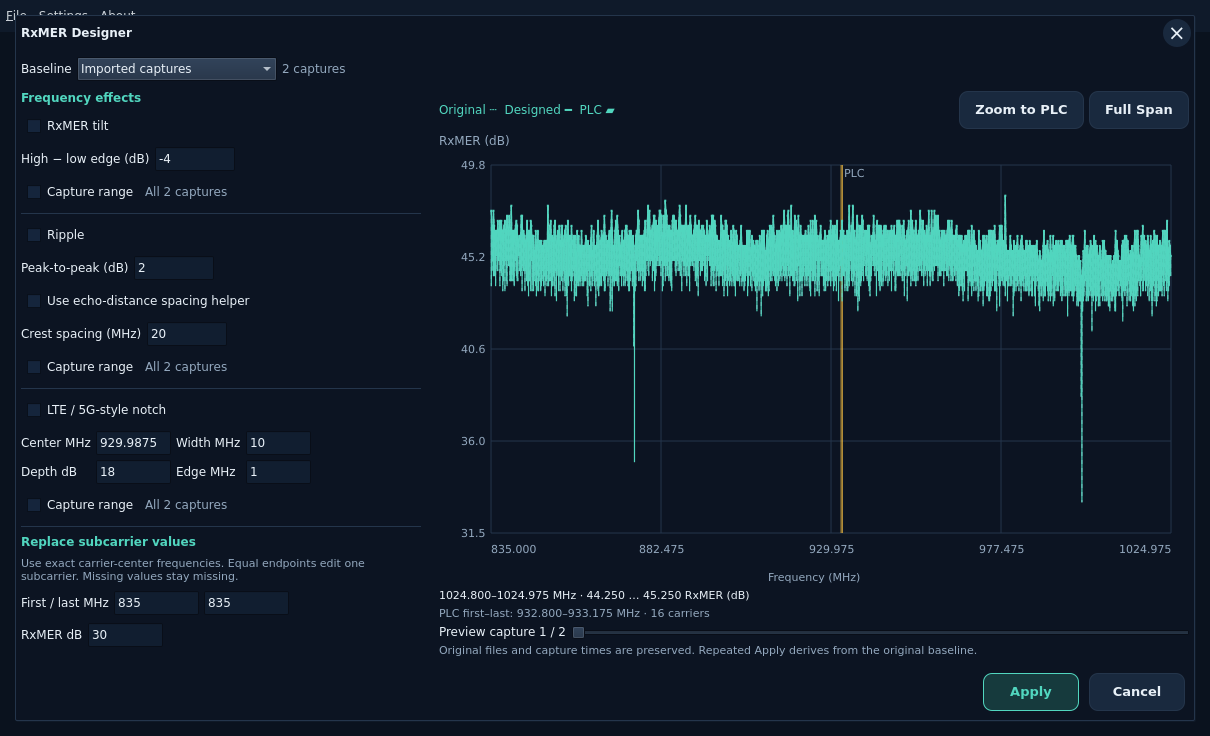
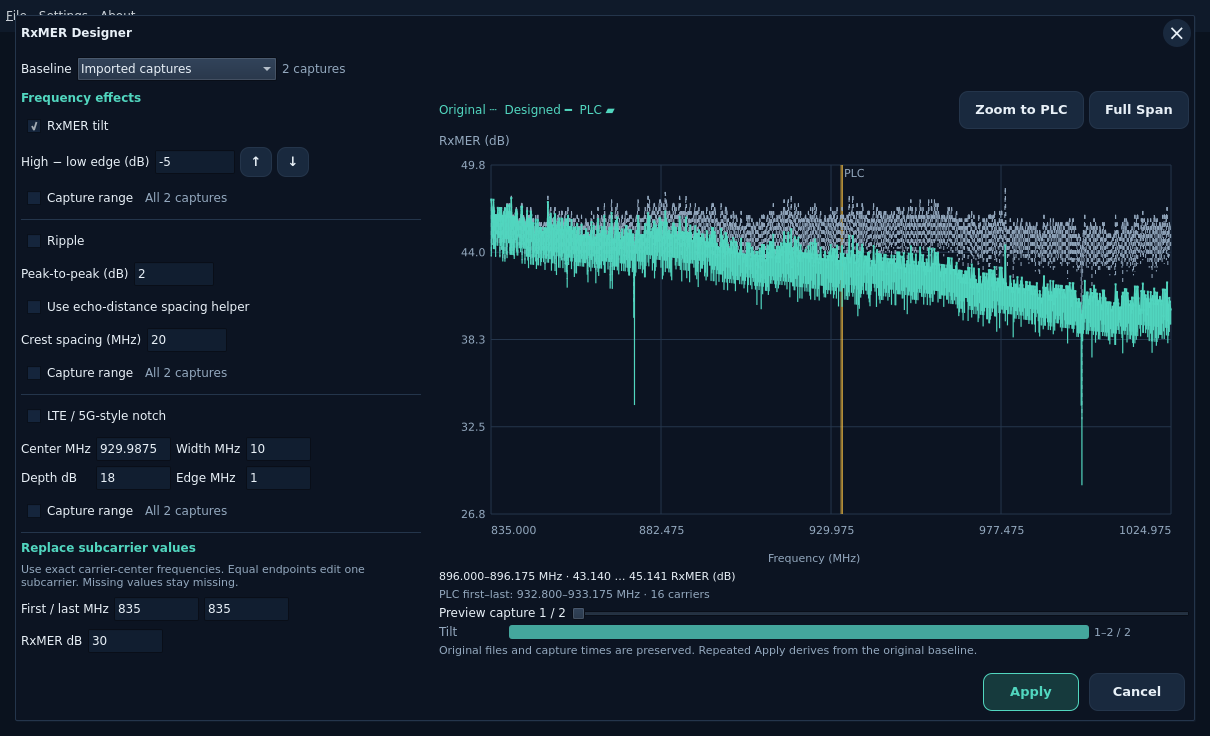
Feature: Add RxMER zoom and PLC focus - Connect Designer wheel and keyboard zoom - Add PLC focus and exact frequency readouts - Strengthen shading and retain capture zoom - Update guides and native screenshots - Tests: 74 adapter, 64 QML, Clippy and native UI

diff --git a/apps/qt/qml/inputs/measurement_input/RxmerDesignerDialog.qml b/apps/qt/qml/inputs/measurement_input/RxmerDesignerDialog.qml
@@ -33,6 +33,13 @@ WorkbenchDialog {
             ripple:ripple.checked ? {scope:rippleScope.value(),peak_to_peak_db:Number(rippleDb.text),spacing:distanceMode.checked ? {mode:"echo_distance",distance_metres:Number(distance.text),velocity_factor:Number(vf.text)} : {mode:"frequency",spacing_hz:Math.round(Number(spacing.text)*1e6)}} : null,
             notch:notch.checked ? {scope:notchScope.value(),center_hz:Math.round(Number(center.text)*1e6),bandwidth_hz:Math.round(Number(bandwidth.text)*1e6),depth_db:Number(depth.text),edge_hz:Math.round(Number(edge.text)*1e6)} : null,edits:valueEdits}
     }
+    function canStepTilt(delta) {
+        const value=Number(tiltDb.text)
+        return tiltDb.text.trim().length>0 && Number.isFinite(value) && value>=-60 && value<=60 && value+delta>=-60 && value+delta<=60
+    }
+    function stepTilt(delta) {
+        if (canStepTilt(delta)) {tiltDb.text=String(Number(tiltDb.text)+delta);refresh()}
+    }
     function document() { return JSON.stringify({source:source.currentIndex === 0 ? "imported":"flat",capture_count:captureCount,baseline_db:Number(baseline.text),recipe:recipe()}) }
     function refresh() { if (!initializing && visible && !working) { viewport=JSON.parse(backend.designer_preview(document(),Math.round(preview.value),viewStart,viewCount));errorMessage=viewport.error || "";diagnostic=viewport.diagnostic || null } }
     function setWindow(start,count) {viewStart=start;viewCount=count;refresh()}
@@ -93,7 +100,26 @@ WorkbenchDialog {
                     Label {text:"Frequency effects";color:theme.accent;font.bold:true}
                     CheckBox {id:tilt;objectName:"designerTilt";text:"RxMER tilt";onToggled:dialog.refresh()}
                     RowLayout {Label {text:"High − low edge (dB)";color:theme.text}
-TextField {id:tiltDb;text:"-4";Layout.preferredWidth:80;onEditingFinished:dialog.refresh()} }
+                        TextField {
+                            id:tiltDb;objectName:"designerTiltDb";text:"-4";Layout.preferredWidth:80
+                            Accessible.name:"High minus low edge tilt in dB"
+                            onEditingFinished:dialog.refresh()
+                            Keys.onUpPressed:dialog.stepTilt(1)
+                            Keys.onDownPressed:dialog.stepTilt(-1)
+                        }
+                        WorkbenchActionButton {
+                            theme:dialog.theme;objectName:"designerTiltUp";text:"↑";compact:true
+                            enabled:dialog.canStepTilt(1);onClicked:dialog.stepTilt(1)
+                            Accessible.name:"Increase RxMER tilt by 1 dB"
+                            ToolTip.visible:hovered || activeFocus;ToolTip.text:Accessible.name
+                        }
+                        WorkbenchActionButton {
+                            theme:dialog.theme;objectName:"designerTiltDown";text:"↓";compact:true
+                            enabled:dialog.canStepTilt(-1);onClicked:dialog.stepTilt(-1)
+                            Accessible.name:"Decrease RxMER tilt by 1 dB"
+                            ToolTip.visible:hovered || activeFocus;ToolTip.text:Accessible.name
+                        }
+                    }
                     RxmerDesignScope {id:tiltScope;theme:dialog.theme;captureCount:dialog.captureCount;onEdited:dialog.refresh()}
                     Rectangle {Layout.fillWidth:true; height:1;color:theme.line}
                     CheckBox {id:ripple;objectName:"designerRipple";text:"Ripple";onToggled:dialog.refresh()}

diff --git a/apps/qt/tests/tst_rxmer_designer.qml b/apps/qt/tests/tst_rxmer_designer.qml
@@ -26,6 +26,21 @@ Pane {
     TestCase {
         name:"RxmerDesigner";when:windowShown
         function cleanup(){dialog.close();wait(100)}
+        function test_tilt_steps_keep_text_entry_keyboard_and_limits(){
+            dialog.open();tryCompare(dialog,"visible",true)
+            const field=findChild(dialog,"designerTiltDb"), up=findChild(dialog,"designerTiltUp"), down=findChild(dialog,"designerTiltDown")
+            verify(field);verify(up);verify(down)
+            findChild(dialog,"designerTilt").checked=true
+            field.text="-5";mouseClick(up);compare(field.text,"-4");compare(backend.lastRequest.recipe.tilt.tilt_db,-4)
+            mouseClick(down);compare(field.text,"-5")
+            field.text="-5.5";field.forceActiveFocus();keyClick(Qt.Key_Up);compare(field.text,"-4.5")
+            keyClick(Qt.Key_Down);compare(field.text,"-5.5")
+            field.text="60";verify(!up.enabled);verify(down.enabled)
+            field.text="-60";verify(!down.enabled);verify(up.enabled)
+            field.text="";verify(!up.enabled);verify(!down.enabled)
+            field.text="invalid";verify(!up.enabled);verify(!down.enabled)
+            field.text="-7";field.forceActiveFocus();keyClick(Qt.Key_Tab);compare(backend.lastRequest.recipe.tilt.tilt_db,-7)
+        }
         function test_zoom_plc_navigation_and_capture_changes_keep_window(){
             dialog.open();tryCompare(dialog,"visible",true)
             mouseClick(findChild(dialog,"designerZoomPlc"))

diff --git a/docs/development/features/rxmer-designer/design.md b/docs/development/features/rxmer-designer/design.md
@@ -66,3 +66,12 @@ region with bounded context; shading retains its true width. Slightly stronger
 fill and endpoint borders improve visibility at full span without widening data.
 Validate clipped curves, out-of-range requests, shortcut bounds, persistent zoom,
 Full Span and native narrow-PLC rendering. No scientific recipe changes.
+
+## RXMER-DESIGN-03: one-dB tilt controls
+
+Keep the editable signed tilt field and add shared compact up/down action buttons.
+Each enabled click or Up/Down key in the field changes the draft by exactly 1 dB
+and refreshes the preview. Preserve fractional typed values and zoom. Disable
+steps from invalid text or beyond the existing ±60 dB limits; Rust remains the
+scientific validation authority. Verify typed values, both directions, keyboard,
+boundaries and invalid drafts, then rebuild the native UI and update its capture.

diff --git a/docs/user/measurement-inputs/rxmer-designer.md b/docs/user/measurement-inputs/rxmer-designer.md
@@ -7,7 +7,12 @@ an association anchor; it is not a measured acquisition time.
 
 ![RxMER Designer with a continuous PLC region](../../images/workbench/rxmer-designer-dark.png)
 
-Enable the effects you need. The preview overlays the original dashed curve and
+Enable the effects you need. The tilt text box remains editable; its **↑ / ↓**
+buttons or the field’s Up/Down keys adjust the current value by exactly **1 dB**.
+Fractional typed values remain supported. Steps beyond ±60 dB or from invalid
+text are disabled.
+
+The preview overlays the original dashed curve and
 the designed solid curve on the same RxMER axis. A single shaded **PLC** region
 runs from the first to the last PLC carrier in the accepted modulation profile.
 The main RxMER chart uses the same region, clipped when zoomed. At full span,

diff --git a/docs/development/features/rxmer-designer/validation.md b/docs/development/features/rxmer-designer/validation.md
@@ -52,3 +52,11 @@ without inventing a wider PLC. Native Designer and main RxMER views, capture
 changes and Home reset were inspected; the main PLC view was also checked in
 light mode. Updated full-span and zoomed screenshots
 are linked in the user guide.
+
+## RXMER-DESIGN-03: tilt steps
+
+All 65 QML checks pass, including typed negative/fractional values, up/down button
+steps, Up/Down keys, bound-disabled controls and invalid/empty drafts. The native
+Qt executable is rebuilt. Native dark inspection confirms −5 → −4 → −5 button
+steps and immediate graph updates; the guide capture shows the editable field
+and both compact controls. Light-mode layout was also inspected. No scientific core or persistence changes were needed.

diff --git a/docs/development/checklist.md b/docs/development/checklist.md
@@ -1192,3 +1192,8 @@ validation are complete; the user guide includes the current dark capture.
   64 QML checks and the latest native build pass; native zoom, capture
   changes and Home reset verified.
   [Design](features/rxmer-designer/design.md#rxmer-design-02-zoom-and-visible-plc-context).
+
+- [x] **RXMER-DESIGN-03** Add 1 dB tilt up/down buttons while retaining the
+  editable field and fractional values. Verify keyboard steps, invalid drafts
+  and existing limits; 65 QML checks and the native Qt build pass.
+  [Design](features/rxmer-designer/design.md#rxmer-design-03-one-db-tilt-controls).
